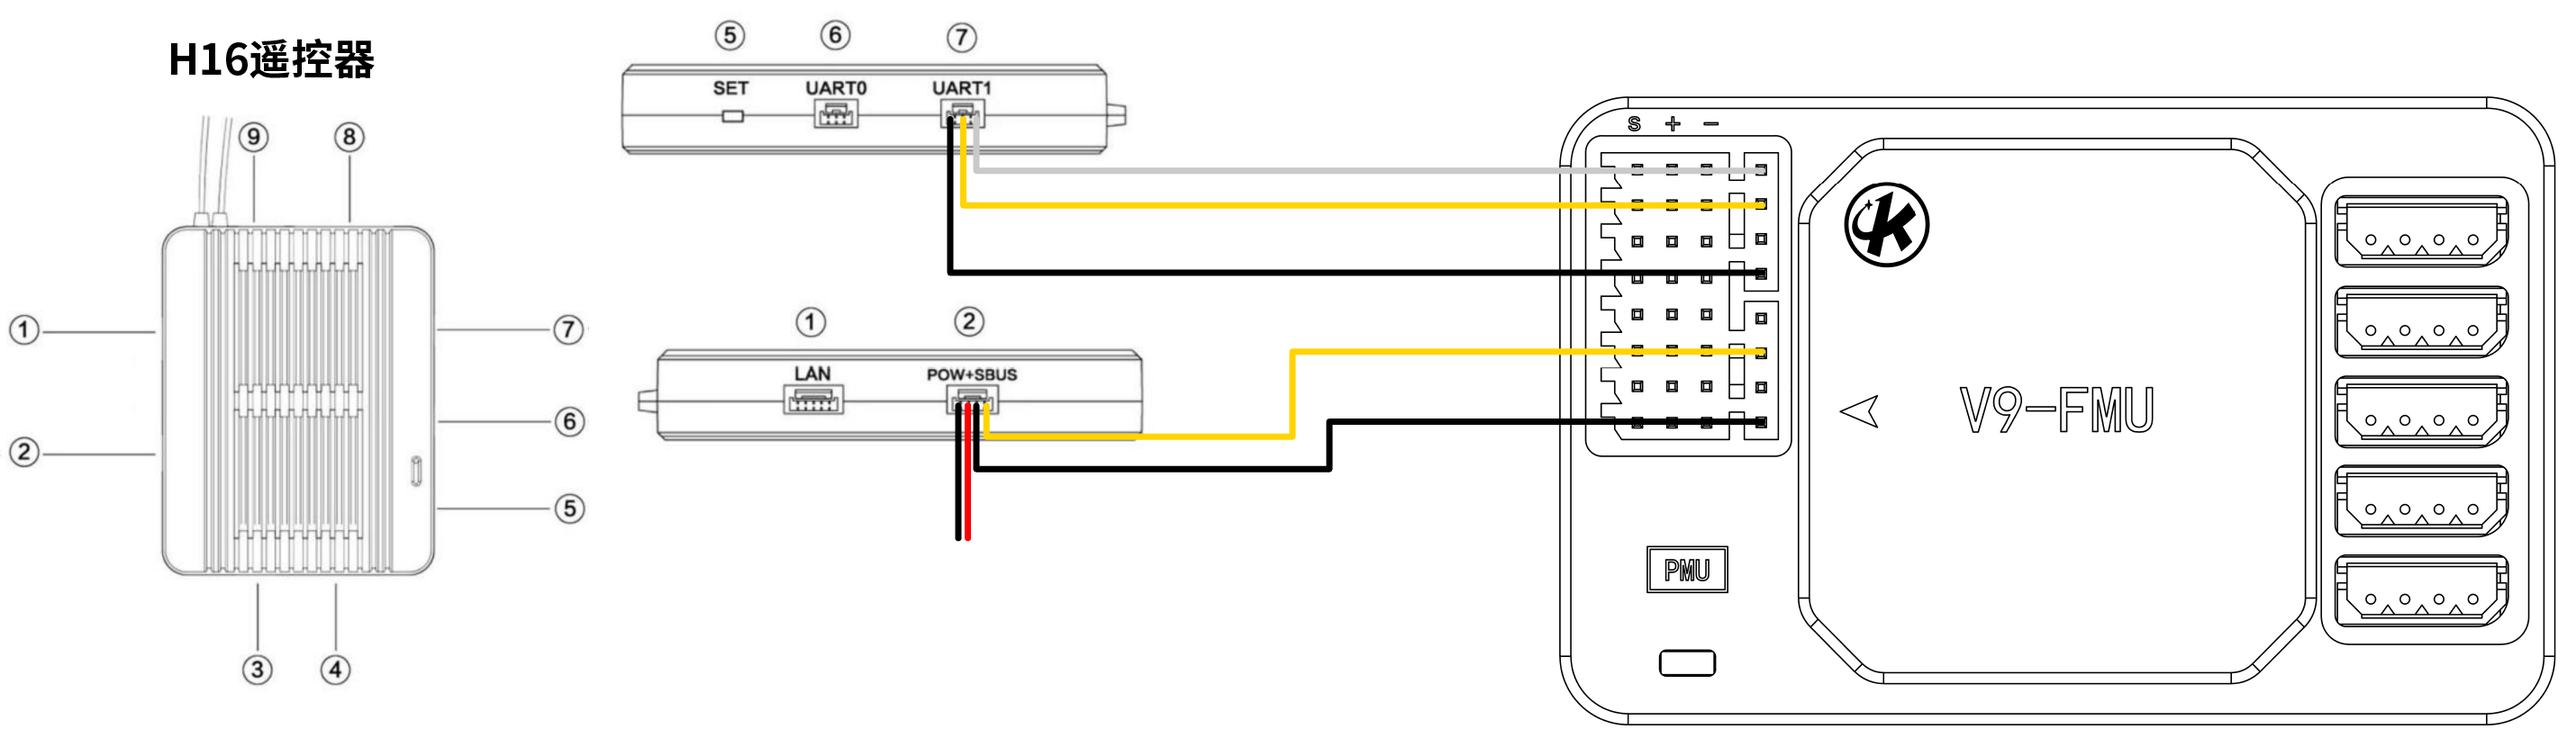
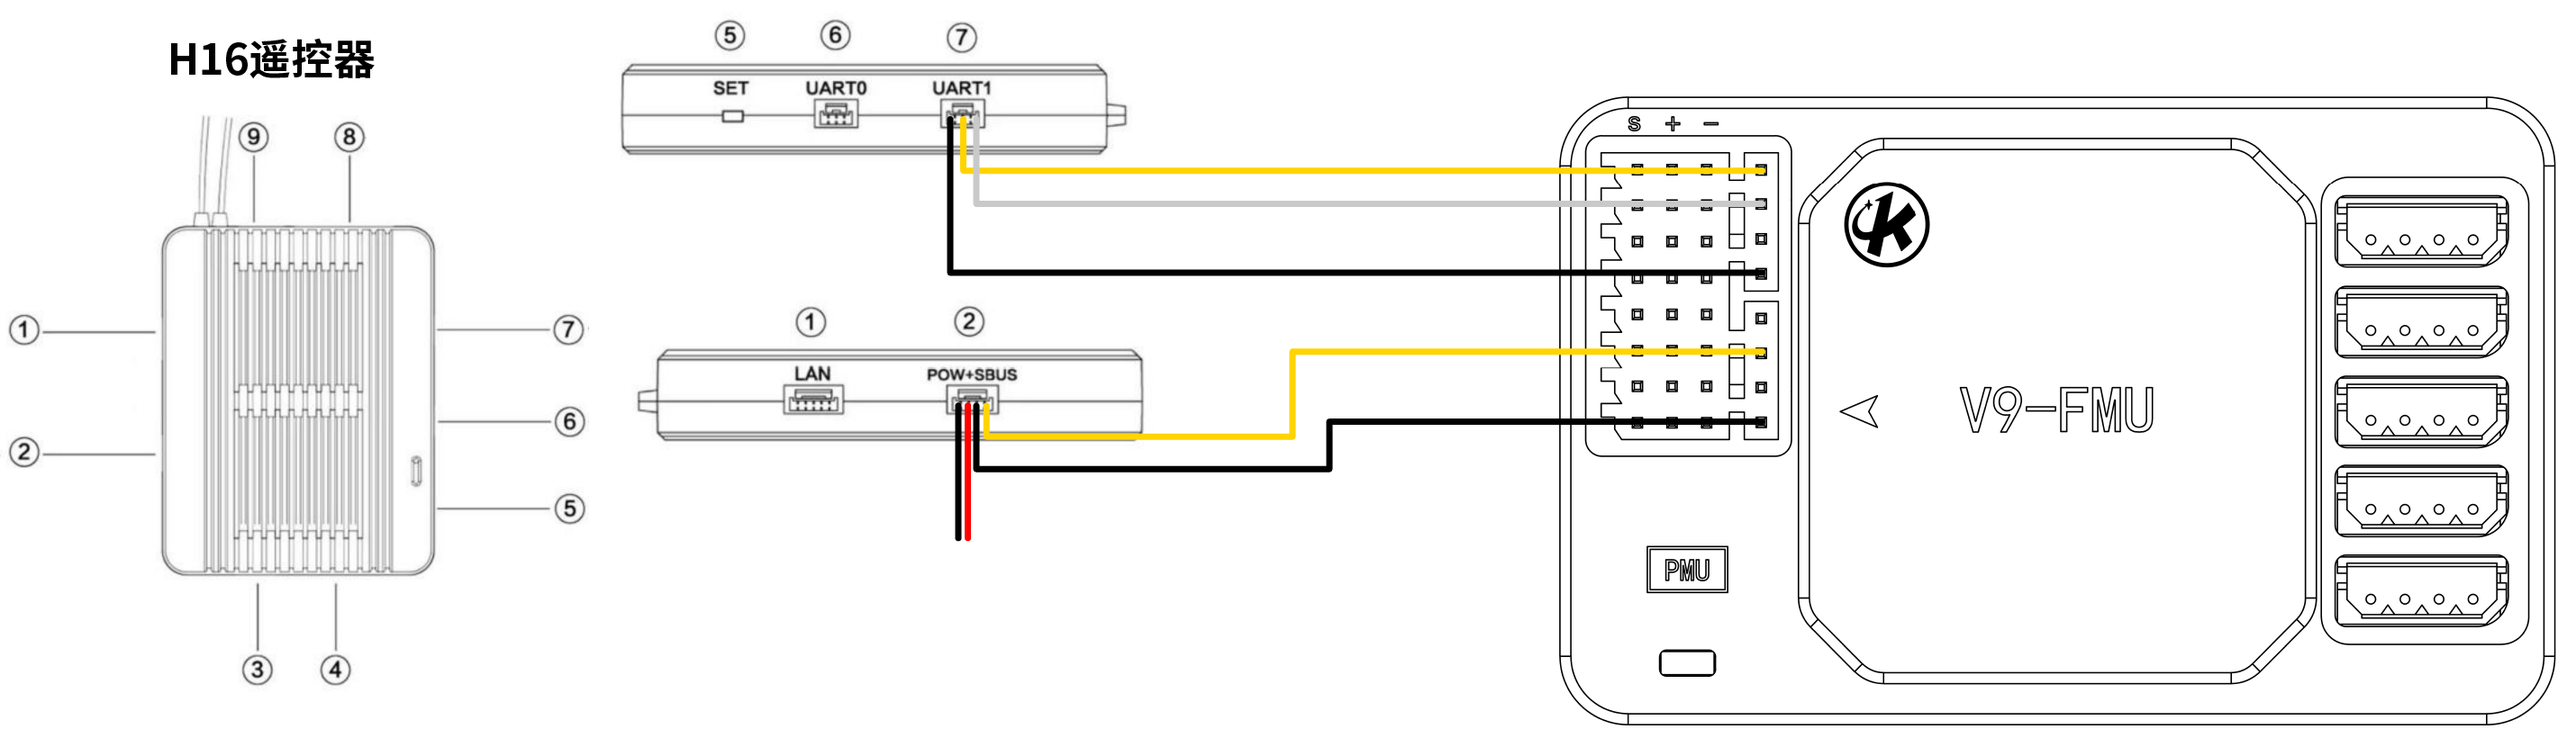
H16连接示意图更新

Changed region(s): [[0.3734, 0.2134, 0.6846, 0.3049]]

diff --git a/content_ch/introduction/quickstart.md b/content_ch/introduction/quickstart.md
@@ -24,10 +24,10 @@
 ## 不同喷洒/播撒设备连接PMU接口说明
 
 |**接口 /机型      **| **默认** | **双水泵**  | **离心喷头**|**播撒**|
-|-------------------|-------------|------------------|----------------|------------|
-|**P1**             | 水泵        |水泵前        | 水泵           | 空       |
-|**P2**             | 水泵        |水泵后         | 水泵           | 空       |
-|**A1**             | 水泵        |离心喷头前 | 离心喷头    | 阀门 |
+|-------------------|-------------|----------|-------------|------------|
+|**P1**             | 水泵        |水泵前      | 水泵       | 空       |
+|**P2**             | 水泵        |水泵后      | 水泵       | 空       |
+|**A1**             | 水泵        |离心喷头前  | 离心喷头    | 阀门 |
 |**A2**             | 水泵        |离心喷头后  | 离心喷头    | 转盘 |
 ---
 
@@ -37,7 +37,8 @@
 -   水平地安装在飞行器面板上并尽量安装在飞行器的正中心，避免震动引起飞行器飞行过程中不稳定。
 -   主控制器安装时，必须将印有V9标识的一面向上，安装方向可分为：前向、左向、后向和右向四个方向安装；默认为前向安装，小三角标志尖角朝向应与飞行器机头方向一致。如设置右向安装，小箭头应指向飞行器右侧
 
-<img src="pictures/机头指向.jpeg" width="80%"> 
+<div  align="center">  <img src="pictures/机头指向.jpeg" width="80%"> 
+</div>
 
 # GPS安装
 
@@ -82,8 +83,12 @@
 -   仿地雷达水平安装在飞机底部，雷达下部不要有任何遮挡
 -   避障雷达安装在飞机的前部/后部，角度上仰12度。参照示意图  
 
+### 避障雷达型号一
 <div  align="center"> <img src="pictures/雷达安装.jpeg" width="70%">
 </div>
 
+---
+
+### 避障雷达型号二
 <div  align="center"> <img src="pictures/新版MZB避障安装示意图.jpg" width="70%">
 </div>
